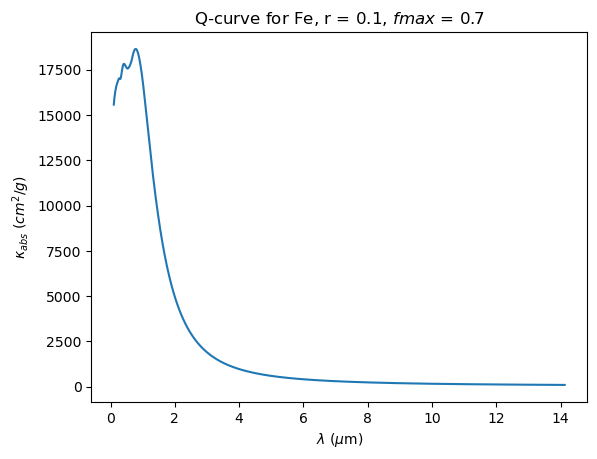
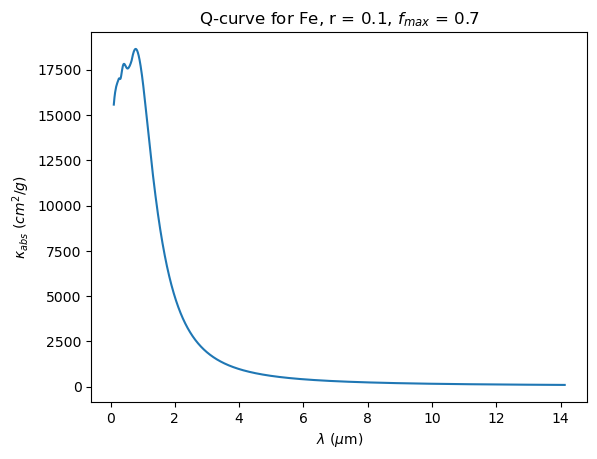
tau and individual flux map figured out

Changed region(s): [[0.3317, 0.0, 0.8141, 0.061]]

diff --git a/Jorge_2022/opacities.py b/Jorge_2022/opacities.py
@@ -4,7 +4,7 @@ import pandas as pd
 from molmass import Formula
 from jorge_diskprop import inner_radius, r_from_T
 from top5_minerals import final_abundances, most_abundant, topabunds_by_radii
-
+from scipy.interpolate import UnivariateSpline
 
 
 # Some constants in CGS
@@ -42,12 +42,12 @@ def surface_density(solids, molwt, top_abunds, nHtot):
     
     """
     Calculates the surface density of the given solids. Note that the calculated "surface" densities are actually (g/cm^3), but we assume column height to be 1 cm, so the surface density can be g/cm^2
-    Shape of surf_dens = (NPOINT, top)
+    Shape of surf_dens = (NPOINT, 1)
     """
 
     # Transposing 1D row array (shape: (1, NPOINT)) into 2D column array (shape: (NPOINT, 1)) for matrix multiplication
-    nHtot = nHtot[np.newaxis]
-    nHtot = nHtot.T
+    # ~ nHtot = nHtot[np.newaxis]
+    # ~ nHtot = nHtot.T
 
     surf_dens = {key: None for key in solids}
 
@@ -82,24 +82,40 @@ def Qcurve_plotter(opfile, dens, gs):
 	lamda = Q_curve['wavelength'].to_numpy()
 	Q = Q_curve['Q'].to_numpy()
 	
-	# Taking only the first half of the data (don't need it till 200 microns)
-	lamda = lamda[: len(lamda) // 2]
-	Q = Q[: len(Q) // 2]
+	# Taking only the indices where the wavelength is between 4 to 16 microns
+	indices = np.where(np.logical_and(lamda >= 4.0, lamda <= 20.0))
+	lamda = lamda[indices]
+	Q = Q[indices]
 	
-	# Still need to trim the wavelength down to about 500 points, but I need it till 20 microns. So I'll take every alternate value
-	# lamda = lamda[::5]
-	# Q = Q[::5]
+	# Ensuring that there are an equal number of wavelength i.e. 600 points across all solids
+	if len(lamda) > 450:
+		
+		idx = np.round(np.linspace(0, len(lamda) - 1, 450)).astype(int) 
+		lamda = lamda[idx]
+		Q = Q[idx]
+	
+	elif len(lamda) < 450:
+		
+		old_indices = np.arange(0,len(lamda))
+		new_length = 450
+		new_indices = np.linspace(0, len(lamda)-1, new_length)
+		
+		spl1 = UnivariateSpline(old_indices, lamda, k=3, s=0)
+		lamda = spl1(new_indices)
+		
+		spl2 = UnivariateSpline(old_indices, Q, k=3, s=0)
+		Q = spl2(new_indices) 
 	
 	kappa = 3 * Q / (4 * gs * dens)
 	
 	plt.plot(lamda, kappa)
 	plt.xlabel(r'$\lambda$ ($\mu$m)')
 	plt.ylabel(r'$\kappa_{abs}$ ($cm^2/g$)')
-	plt.title(r"Q-curve for {0}, r = {1}, $fmax$ = {2}".format(mineral, rv, fmax))
-	plt.savefig("Qcurves/Qcurve_{0}_r{1}_f{2}.png".format(mineral, rv, fmax), bbox_inches = 'tight')
+	plt.title(r"Q-curve for {0}, r = {1}, $f_{{max}}$ = {2}".format(mineral, rv, fmax))
+	plt.savefig("Qcurves_trimmed/Qcurve_{0}_r{1}_f{2}.png".format(mineral, rv, fmax), bbox_inches = 'tight')
 	plt.show()
 	
-	return lamda, kappa
+	return mineral, rv, fmax, lamda, kappa
 
 
 
@@ -108,8 +124,9 @@ def Plancks(T0, R_arr, R_in, lamda):
     """
     Calculates Planck function for a range of radius (converted from the temperature based on the disk model) and a range of wavelength in erg/(s cm^3 sr)
     """
-    # !!!!!!!!!!!!!!!!!!!!!!!!!! CHECK THIS COMMENT LATER ON !!!!!!!!!!!!!!!!!!!!!!!!!!!!!!!!!!!
-    # Transposing 1D row array (shape: (1, NPOINT)) into 2D column array (shape: (NPOINT, 1)) for matrix multiplication
+
+    # Transposing 1D row array (shape: (1, NUMPOINTS)) into 2D column array (shape: (NUMPOINTS, 1)) for matrix multiplication
+    # Note that NUMPOINTS, the number of wavelength points considered (which varies based on the material) is not the same as NPOINT, the number of points in the GGchem simuation
     lamda = lamda[np.newaxis]
     lamda = lamda.T
 
@@ -141,7 +158,7 @@ def tau_calc(sigma, kappa):
     
     
 
-def flux_map(tau, I, lamda, R_arr):
+def flux_map(solid_name, rv, fmax, tau, I, lamda, R_arr):
 
     """
     Plotting the flux map (r, lambda)
@@ -151,7 +168,7 @@ def flux_map(tau, I, lamda, R_arr):
     F_map = (1 - np.exp(-tau)) * I                      # Calculating the flux map
 
     fig, ax = plt.subplots(1,1)
-    img = ax.imshow(F_map, cmap='jet', interpolation='none')
+    img = ax.imshow(F_map, cmap='plasma', interpolation='none')
 
     # Axes formatting    
     x_axis_locations = np.linspace(0, len(lamda)-1, 8).astype(int)
@@ -166,9 +183,9 @@ def flux_map(tau, I, lamda, R_arr):
     ax.set_yticklabels(y_axis_labels)
     ax.set_ylabel('R (AU)')
 
-    ax.set_title(r"Flux Map for Forsterite, r = 0.1, $f_{max}$ = 1.0")
+    ax.set_title(r"Flux Map for {0}, r = {1}, $f_{{max}}$ = {2}".format(solid_name, rv, fmax))
     fig.colorbar(img)
-    plt.savefig("Forst_flux_map.png", bbox_inches = 'tight')
+    plt.savefig("Flux_Maps_trimmed/{0}_fluxmap_r{1}_fmax{2}.png".format(solid_name, rv, fmax), bbox_inches = 'tight')
     plt.show()
     
     return F_map
@@ -260,8 +277,7 @@ def main():
 	R_in = inner_radius(Qr, T0, R_sun, T_sun)
 	R_arr = r_from_T(R_in, Tg, T0)
 	
-	top = 5                                 # Top X condensates whose abundance is the highest
-	
+	top = 5                                 # Top X condensates whose abundance is the highest	
 	gs = 0.1E-4                             # Grain radius (cm)
 	
 	# All 52 condensates for Sun from Fig C.1 Jorge et al. 2022:
@@ -270,27 +286,44 @@ def main():
 	# Finding the most abundant condensates
 	abundances, solid_names = final_abundances(keyword, minerals, dat, NELEM, NMOLE, NDUST)
 	top_abunds, top_solids = most_abundant(top, NPOINT, abundances, R_arr, solid_names)
-	topabunds_radii = topabunds_by_radii(top_solids, solid_names, top_abunds)
+	top5_solids, topabunds_radii = topabunds_by_radii(top_solids, solid_names, top_abunds)
 	
 	# Calculating the surface density
-	molwt = molecular_weight(solid_names)
-	surf_dens = surface_density(solid_names, molwt, topabunds_radii, nHtot)
-	print(surf_dens)
+	molwt = molecular_weight(top5_solids)
+	surf_dens = surface_density(top5_solids, molwt, topabunds_radii, nHtot)
 	
 	# Creating a dictionary of Qcurve input files and the corresponding material densities in g/cm^3
-	opfile_dens = {'Qcurve_inputs/Q_Diopside_rv0.1_fmaxxxx.dat' : 3.278, 'Qcurve_inputs/Q_Enstatite_Jaeger_DHS_fmax1.0_rv0.1.dat' : 3.2, 'Qcurve_inputs/Q_Forsterite_Sogawa_DHS_fmax1.0_rv0.1.dat' : 3.27, 'Qcurve_inputs/qval_Fe3O4_rv0.1_fmax0.7.dat' : 5.17, 'Qcurve_inputs/qval_Fe2SiO4_rv0.1_fmax1.0.dat' : 4.392, 'Qcurve_inputs/qval_Fe_met_rv0.1_fmax0.7.dat' : 7.874, 'Qcurve_inputs/qval_FeS_rv0.1_fmax0.7.dat' : 4.84, 'Qcurve_inputs/qval_Serpentine_rv0.1_fmax0.7.dat' : 2.6, 'Qcurve_inputs/qval_Spinel_rv0.1_fmax0.7.dat' : 3.64}
+	opfile_dens = {'Qcurve_inputs/Q_CaMgSi2O6_rv0.1_fmaxxxx.dat' : 3.278, 'Qcurve_inputs/Q_MgSiO3_Jaeger_DHS_fmax1.0_rv0.1.dat' : 3.2, 'Qcurve_inputs/Q_Mg2SiO4_Sogawa_DHS_fmax1.0_rv0.1.dat' : 3.27, 'Qcurve_inputs/qval_Fe3O4_rv0.1_fmax0.7.dat' : 5.17, 'Qcurve_inputs/qval_Fe2SiO4_rv0.1_fmax1.0.dat' : 4.392, 'Qcurve_inputs/qval_Fe_met_rv0.1_fmax0.7.dat' : 7.874, 'Qcurve_inputs/qval_FeS_rv0.1_fmax0.7.dat' : 4.84, 'Qcurve_inputs/qval_Mg3Si2O9H4_rv0.1_fmax0.7.dat' : 2.6, 'Qcurve_inputs/qval_MgAl2O4_rv0.1_fmax0.7.dat' : 3.64}
 	
-	# Plotting the Qcurves
-	lamdas = []
-	kappas = []
+	# Plotting the Qcurves	
+	lamdas = {key: None for key in top5_solids}
+	kappas = {key: None for key in top5_solids}
+	rvs = {key: None for key in top5_solids}
+	fmaxs = {key: None for key in top5_solids}
 	
 	for opfile, density in opfile_dens.items():
-		lamda, kappa = Qcurve_plotter(opfile, density, gs)
+		mineral, rv, fmax, lamda, kappa = Qcurve_plotter(opfile, density, gs)
+		lamdas[mineral] = lamda
+		kappas[mineral] = kappa
+		rvs[mineral] = rv
+		fmaxs[mineral] = fmax
+		
+	# Since some opacity files are missing at the moment, some lamda and kappa values are None
 	
-	# ~ # Plotting the flux map
-	# ~ I = Plancks(T0, R_arr, R_in, lamda)    
-	# ~ tau = tau_calc(surf_dens[:, 1], kappa)
-	# ~ F_map = flux_map(tau, I, lamda, R_arr)
+	# Plotting the flux map
+	I = {key: None for key in top5_solids}
+	tau = {key: None for key in top5_solids}
+	
+	for solid in top5_solids:
+		
+		try: 
+			I[solid] = Plancks(T0, R_arr, R_in, lamdas[solid]) 
+			tau[solid] = tau_calc(surf_dens[solid], kappas[solid])
+			F_map = flux_map(solid, rvs[solid], fmaxs[solid], tau[solid], I[solid], lamdas[solid], R_arr)
+		except:
+			TypeError
+		
+	
 	
 	# ~ # Finding the integrated flux
 	# ~ int_flux = plot_spectra(tau, I, R_arr, lamda, Rmin=0.03, Rmax=1.28)

diff --git a/Jorge_2022/top5_minerals.py b/Jorge_2022/top5_minerals.py
@@ -83,8 +83,10 @@ def topabunds_by_radii(top_solids, solid_names, top_abunds):
     Returns a dictionary of top 5 abundance values by radius. If the solid is not present in top 5 in that radius, the abundance is aken to be -300
     """
 
+    top5_solids = np.unique(top_solids)
+    
     # Make dictionary of all minerals to save radii at which the minerals are top 5 most abundant
-    topabunds_radii = {key: np.full(500, -300.0) for key in solid_names}
+    topabunds_radii = {key: np.full(500, -300.0) for key in top5_solids}
     
     # Radii indices where the solids are top 5 most abundant    
     for solid in topabunds_radii.keys():
@@ -93,7 +95,7 @@ def topabunds_by_radii(top_solids, solid_names, top_abunds):
         radii = idx[0]
         topabunds_radii[solid][radii] = top_abunds[idx]
         
-    return topabunds_radii
+    return top5_solids, topabunds_radii
 
 
 
@@ -141,7 +143,7 @@ def main():
     
     abundances, solid_names = final_abundances(keyword, minerals, dat, NELEM, NMOLE, NDUST)
     top_abunds, top_solids = most_abundant(top, NPOINT, abundances, R_arr, solid_names)
-    topabunds_radii = topabunds_by_radii(top_solids, solid_names, top_abunds)
+    top5_solids, topabunds_radii = topabunds_by_radii(top_solids, solid_names, top_abunds)
 
     print("\n TOP", top, "HIGHEST ABUNDANCES AT EACH RADIAL BIN : \n", top_abunds)
     print("\n CORRESPONDING TOP", top, "SPECIES AT EACH RADIAL BIN: \n", top_solids)
@@ -158,21 +160,7 @@ def main():
                     f.write(str(R_arr[radius]) + '\n')                                                                          # If all 5 solids are written, then add the radius in the last column and move to the next line
                 else:
                     f.write('\t ')
-
-    # Write down abundances and corresponding solids element by element in a file with just tab spaces for later parsing 
-    filename2 = 'Sun/sun_most_abundant.dat'
-    with open(filename2, 'w') as f:
-        
-        for radius in range(len(top_abunds)):
-            for element in range(len(top_abunds[radius])):
-                f.write('{0}:{1}'.format(str(top_solids[radius][element]), str(top_abunds[radius][element])))          # Adding the top 5 most abundant solids and their corresponding abundances
-                if (element+1) % top == 0:
-                    f.write('\t' + str(R_arr[radius]) + '\n')                                                          # If all 5 solids are written, then add the radius in the last column and move to the next line
-                else:
-                    f.write('\t')
-
-    print("Abundances written to {}".format(filename))
-    
+                    
 
 if __name__ == "__main__":
     main()
